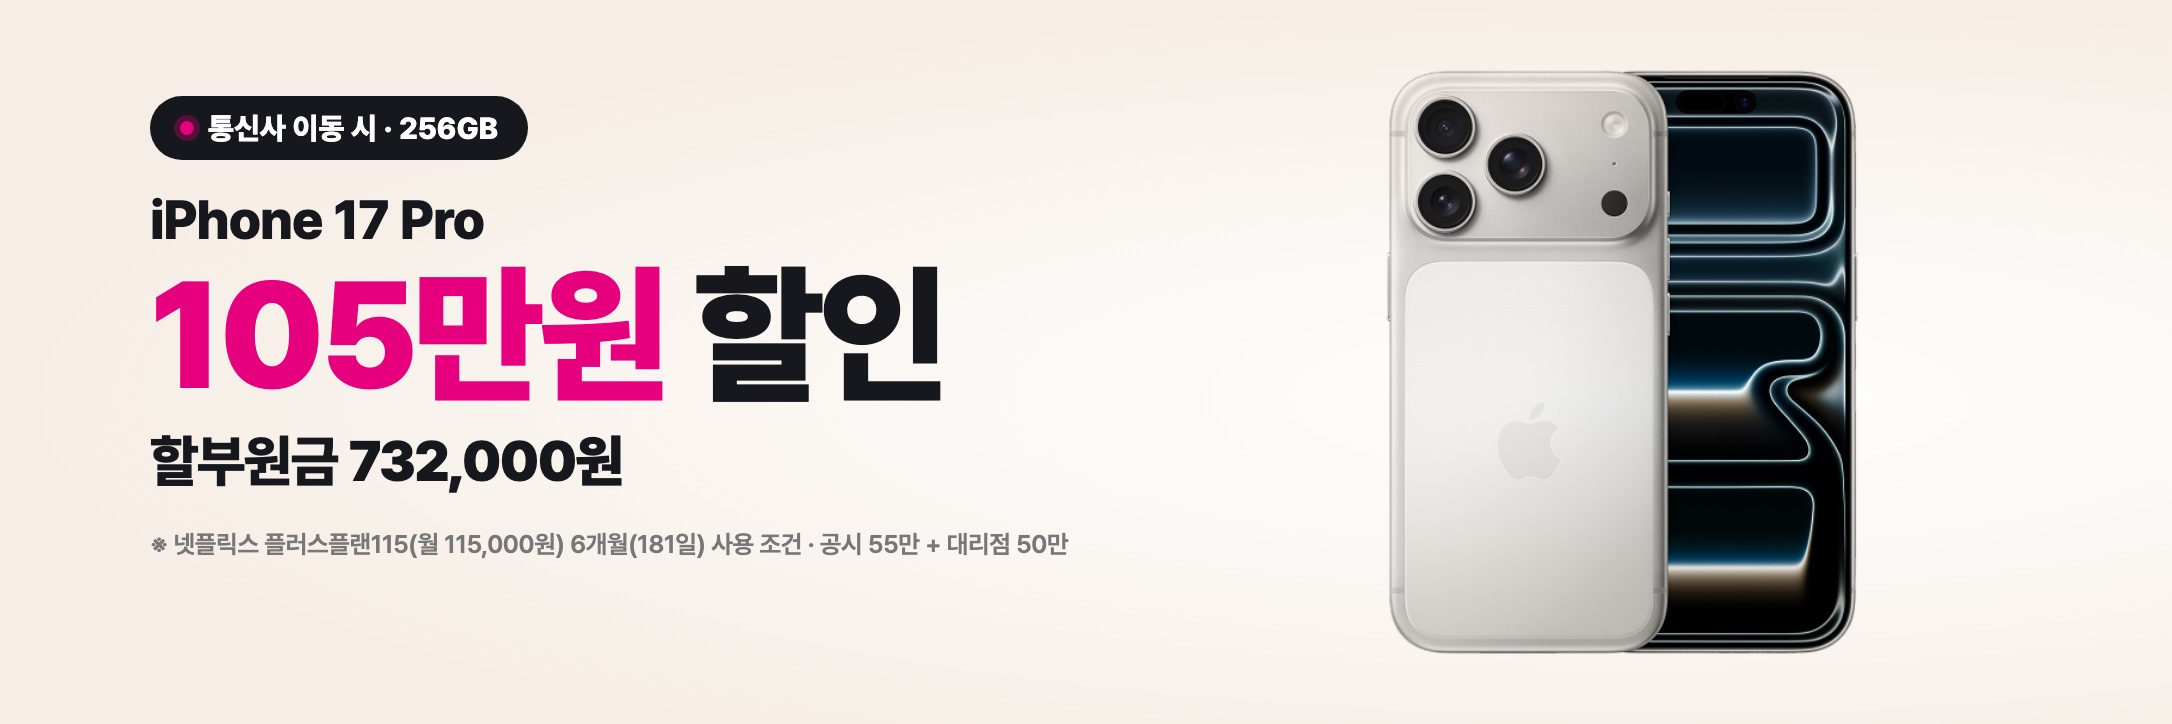
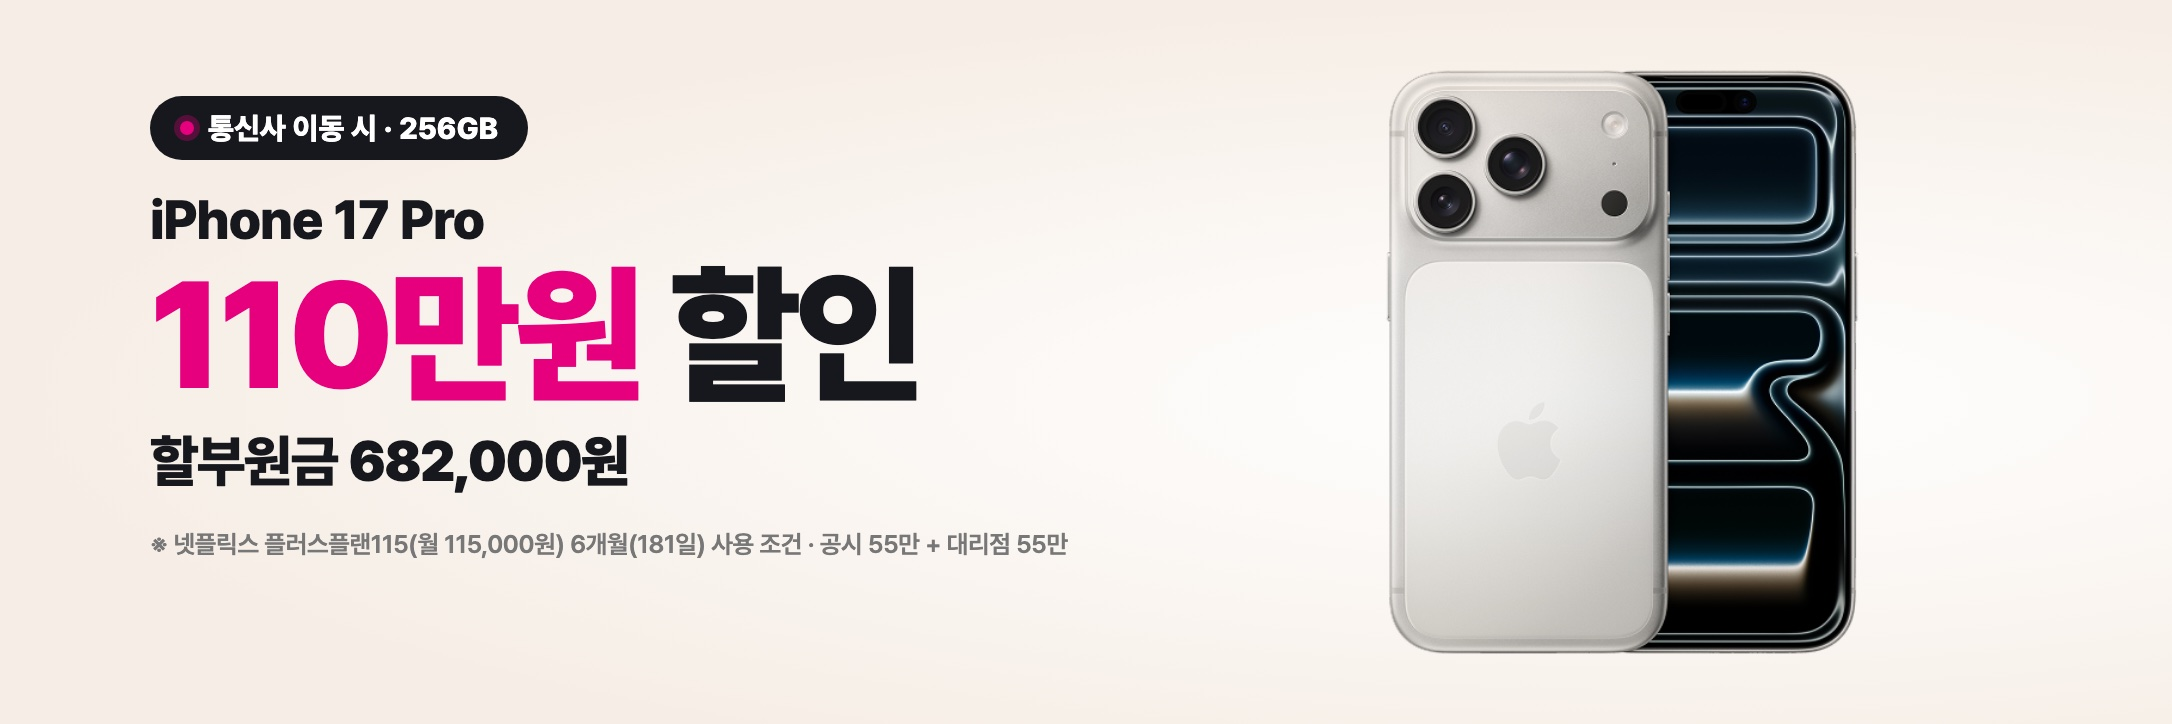
17 Pro 히어로 배너: 110만원 할인·할부원금 682,000원(대리점 55만)

Changed region(s): [[0.0925, 0.3646, 0.4319, 0.5773], [0.1542, 0.6077, 0.3085, 0.6685], [0.4627, 0.7293, 0.4936, 0.7597]]

diff --git a/index.html b/index.html
@@ -2337,8 +2337,8 @@ y=l.getElementsByTagName(r)[0];y.parentNode.insertBefore(t,y);
 </a>
 <a class="ip18-hero-link hero-slide" href="?cap=256&amp;type=2&amp;plan=LPZ1007251#apply-ip17pr">
 <picture class="ip18-photo">
-<source media="(max-width: 768px)" srcset="hero_ip17pr_sq.jpg?v=1026">
-<img src="hero_ip17pr.jpg?v=1026" alt="아이폰17 Pro 256GB 통신사 이동 시 105만원 할인, 할부원금 732,000원 - 넷플릭스 플러스플랜115(월 115,000원) 6개월(181일) 사용 조건(공시지원금 55만원 + 대리점 지원금 50만원) - LG유플러스 공식인증 대리점 LGU+더끌림컴퍼니">
+<source media="(max-width: 768px)" srcset="hero_ip17pr_sq.jpg?v=1111">
+<img src="hero_ip17pr.jpg?v=1111" alt="아이폰17 Pro 256GB 통신사 이동 시 110만원 할인, 할부원금 682,000원 - 넷플릭스 플러스플랜115(월 115,000원) 6개월(181일) 사용 조건(공시지원금 55만원 + 대리점 지원금 55만원) - LG유플러스 공식인증 대리점 LGU+더끌림컴퍼니">
 </picture>
 </a>
 <a class="ip18-hero-link hero-slide" href="?cap=256&amp;type=2&amp;plan=LPZ1007251#apply-ip18pr">
